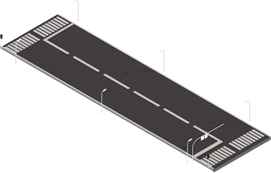
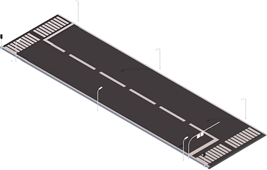
add json

diff --git a/src/app/app.content.ts b/src/app/app.content.ts
@@ -2,6 +2,7 @@ import {Component, ElementRef, OnInit} from '@angular/core';
 import { NavigationService } from "./map/navigation.service";
 import {DialogService} from "ng2-bootstrap-modal";
 import {ConfirmComponent} from "./addBlockModal/addBlockModal";
+import {HttpClient} from "@angular/common/http";
 
 @Component({
   selector: 'app-content',
@@ -10,6 +11,7 @@ import {ConfirmComponent} from "./addBlockModal/addBlockModal";
 })
 export class AppContent implements OnInit {
   sectionSample:Object;
+  jsonData : JSON;
   sizemap:number;
   title = 'Adwoo';
   screenHeight: number;
@@ -20,7 +22,7 @@ export class AppContent implements OnInit {
   navigation: any;
   navigationX: number;
   navigationY: number;
-  constructor(el: ElementRef, navigation:NavigationService, private dialogService:DialogService) {
+  constructor(el: ElementRef, navigation:NavigationService, private dialogService:DialogService, private http: HttpClient) {
     this.navigation = navigation;
     this.navigationX = -700;
     this.navigationY = -30;
@@ -90,6 +92,9 @@ export class AppContent implements OnInit {
     let screenDom = window.getComputedStyle(document.getElementsByClassName("screen").item(0));
     this.mapHeight = screenDom.height;
     this.mapWidth = screenDom.width;
+    this.http.get('/assets/json/objects.json').subscribe(data => {
+      console.log(data)
+    });
   }
   fillMap():void {
     this.sizemap = 10;

diff --git a/src/app/app.content.html b/src/app/app.content.html
@@ -49,9 +49,10 @@
     <div *ngFor="let line of map; let lineIndex = index">
       <img *ngFor="let cell of line; let roadIndex = index" src="../assets/City_Objects/Block_Road_02.png" [style.left] = "410 + (271.5*roadIndex) + lineIndex*267 + 'px'" [style.top] = "415 - (158*roadIndex) + lineIndex*156 + 'px'" [style.z-index] = "0 - roadIndex">
     </div>
-    <img src="../assets/City_Objects/Block_32.png" style="left:0px; top:0px">
-    <img src="../assets/City_Objects/Block_Road_Long_01.png" style="left:0px; top:0px">
-    <img src="../assets/City_Objects/Block_Road_Long_02.png" style="left:0px; top:0px">
+    <img src="../assets/City_Objects/Block_32.png" style="left:175px; top:21px">
+    <img src="../assets/City_Objects/Block_Road_Long_01.png" style="left:143px; top:411px">
+    <img src="../assets/City_Objects/Block_Road_Long_02.png" style="left:675px; top:412px">
+    <img src="../assets/City_Objects/Block_Road_Long_01.png" style="left:686px; top:93px">
   </div>
 </div>
 <div class="footer container-fluid" >

diff --git a/src/app/app.module.ts b/src/app/app.module.ts
@@ -6,6 +6,7 @@ import { FilterComponent } from "./filters/filter.component";
 import { NavigationService } from "./map/navigation.service"
 import { BootstrapModalModule } from 'ng2-bootstrap-modal';
 import {ConfirmComponent} from "./addBlockModal/addBlockModal";
+import {HttpClientModule} from '@angular/common/http';
 
 @NgModule({
   declarations: [
@@ -15,7 +16,8 @@ import {ConfirmComponent} from "./addBlockModal/addBlockModal";
   ],
   imports: [
     BrowserModule,
-    BootstrapModalModule
+    BootstrapModalModule,
+    HttpClientModule
   ],
   entryComponents: [ConfirmComponent],
   providers: [NavigationService],
